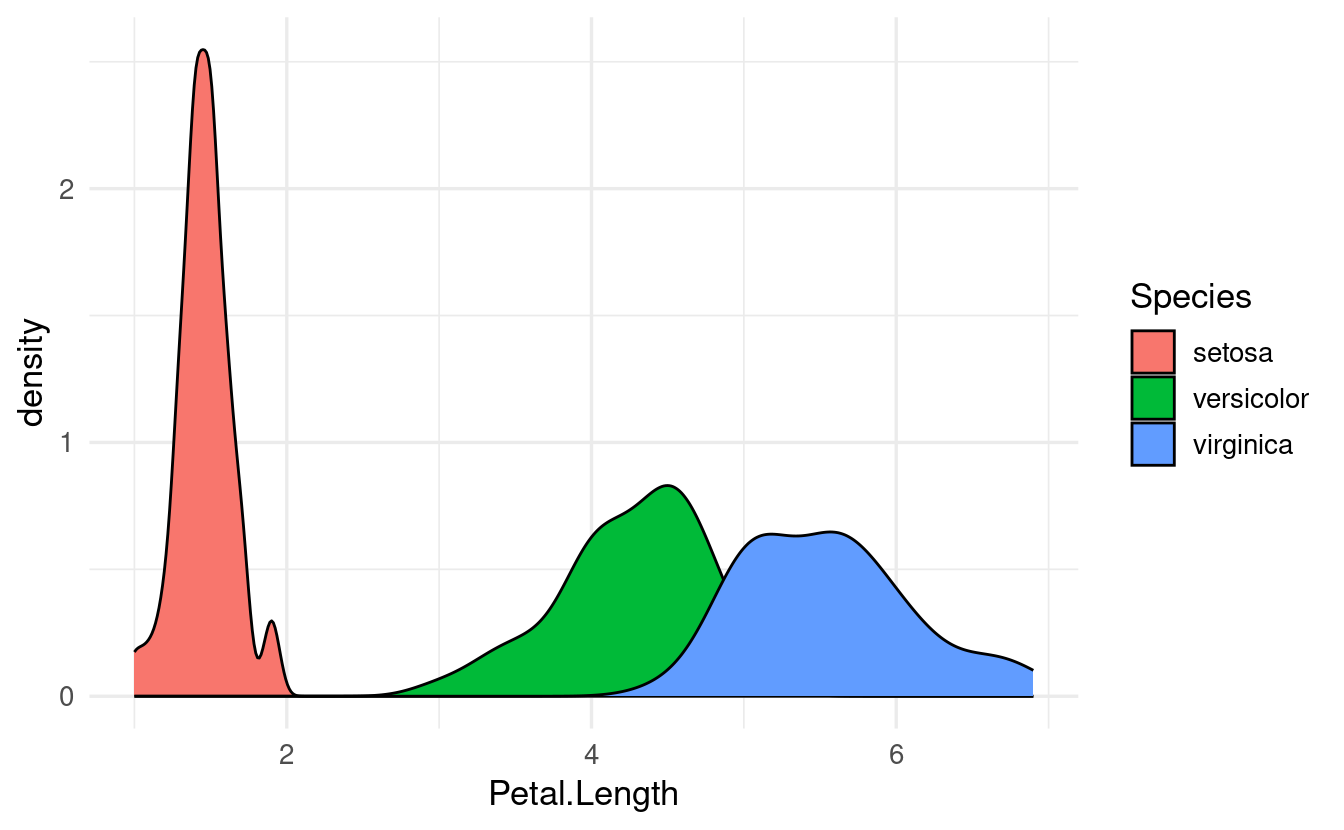
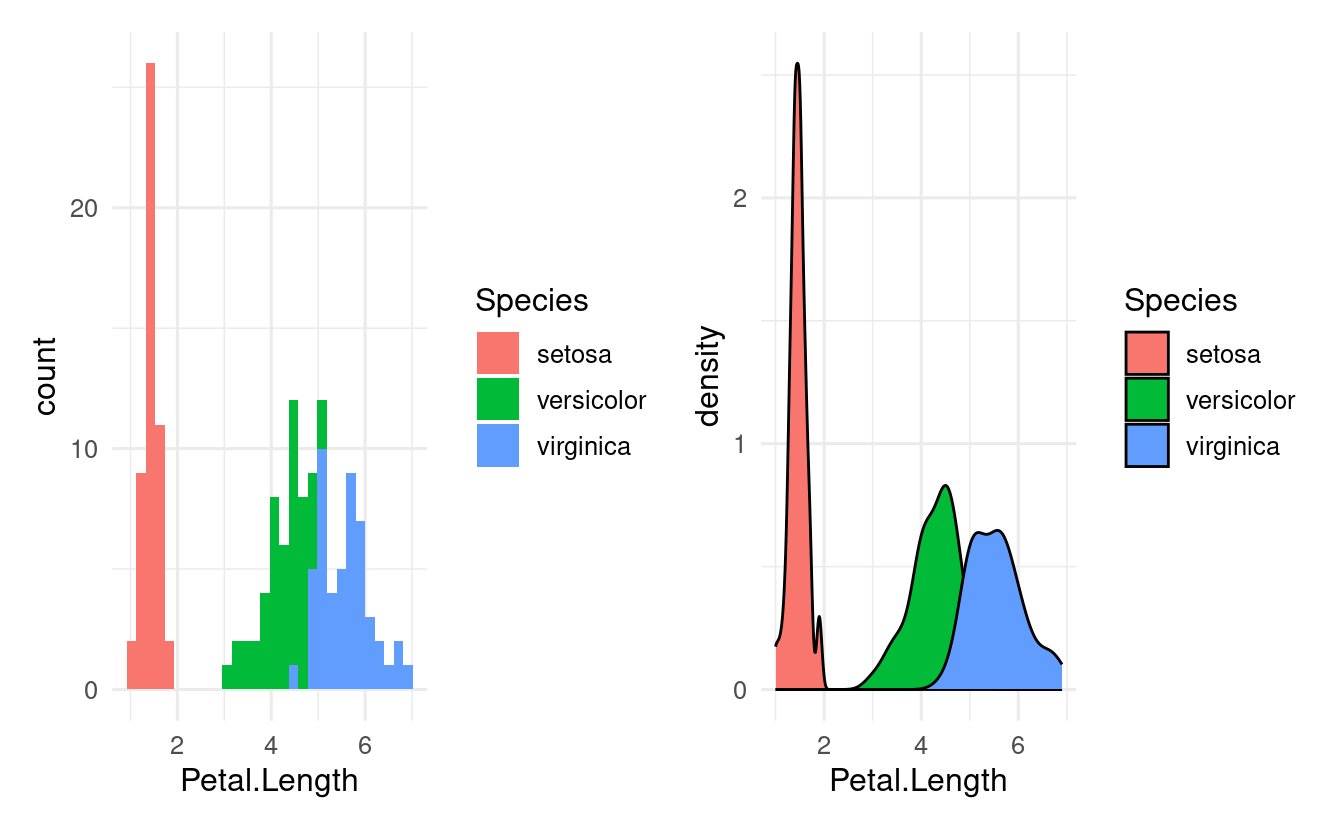
CC S05E09 proofread

diff --git a/content/codeclub/S05E09/index.md b/content/codeclub/S05E09/index.md
@@ -5,10 +5,10 @@ subtitle: "More aesthetic mappings and geoms"
 summary: "Today, we'll continue to learn about data visualization with ggplot2, focusing on aesthetic mappings and geoms."
 authors: [admin]
 tags: [codeclub, r4ds]
-date: "2023-03-28"
-lastmod: "2023-03-28"
+date: "2023-03-29"
+lastmod: "2023-03-29"
 toc: true
-rmd_hash: 5531fc60bb343a74
+rmd_hash: 18764a195b3e9b50
 
 ---
 
@@ -52,7 +52,7 @@ The *ggplot2* package is one of the core *tidyverse* packages, so it's generally
 
 </div>
 
-We'll talk about formatting plots to your heart's delight in Chapter 12, but one trick for now is to set a ggplot2 plotting "theme" that differs from the default for the rest of your R session:
+We'll talk about formatting plots to your heart's delight in Chapter 12, but one trick for now is to set a different *ggplot* plotting "theme" for the rest of your R session:
 
 <div class="highlight">
 
@@ -87,9 +87,9 @@ In last week's session, we worked with the built-in `iris` dataframe, which has 
 
 We learned that we create ggplots by "mapping" variables (dataframe columns) to so-called "aesthetics" such as the `x`-axis, the `y`-axis, and `color`:
 
--   If we map the `iris` dataframe variable `Petal.Length` to the `x`-axis aesthetic, then the x-axis of our plot will represent the values from the column `Petal.Length` in the dataframe.
+-   If we map the `iris` dataframe column `Petal.Length` to the `x`-axis aesthetic, then the values from that column will be plotted along the x-axis.
 
--   If we map the variable `Species` to the `color` aesthetic, then observations are colored according to the values in the `Species` column, i.e. according to which species of iris they belong to.
+-   If we map the `iris` dataframe column `Species` to the `color` aesthetic, then observations are colored according to the values in the `Species` column, i.e. according to which species of iris they belong to.
 
 <div class="highlight">
 
@@ -160,7 +160,7 @@ And that different geoms can be layered on top of each other, such as when you w
 
 ### Local vs global aesthetics
 
-One thing that's important to realize once you start using multiple geoms in a single plot is the distinction between "global" versus "local" aesthetics:
+It's useful to understand the distinction between "global" and "local" aesthetics:
 
 -   **Global aesthetics** apply to all geoms in the plot, and are added in the initial [`ggplot()`](https://ggplot2.tidyverse.org/reference/ggplot.html) call (or in a stand-alone [`aes()`](https://ggplot2.tidyverse.org/reference/aes.html) layer).
 
@@ -179,9 +179,9 @@ For instance, if we globally map `Species` to `color`, this will apply to the [`
 
 </div>
 
-Note also that in case of [`geom_smooth()`](https://ggplot2.tidyverse.org/reference/geom_smooth.html), which summarizes the data using a statistical function, this summarizing is done entirely *separately* for each species!
+(Note also that in case of [`geom_smooth()`](https://ggplot2.tidyverse.org/reference/geom_smooth.html), which summarizes the data using a statistical function, this summarizing is done entirely *separately* for each species!)
 
-Compare this with the plot that is created when we define the `color` mapping *locally*, and *only* for [`geom_point()`](https://ggplot2.tidyverse.org/reference/geom_point.html):
+In contrast, when we define the `color` mapping *locally*, and *only* for [`geom_point()`](https://ggplot2.tidyverse.org/reference/geom_point.html), we get this:
 
 <div class="highlight">
 
@@ -200,27 +200,28 @@ Now, we got a single line (and a single statistical fit) that ignores the `Speci
 
 *ggplot* has dozens of different geoms -- for an overview, see [this cheatsheet](https://github.com/rstudio/cheatsheets/blob/main/data-visualization-2.1.pdf) that Jessica linked to last week or the ggplot [reference on geoms](https://ggplot2.tidyverse.org/reference/#geoms).
 
-Let's see a couple more commonly used geoms. Last week we talked a bit about how a scatterplot does not always make it easy to compare the distributions of a variable among groups.
+Let's see a couple more commonly used geoms. Last week we talked a bit about how a scatterplot does not always make it easy to compares the distributions of a variable among groups.
 
 Useful plot types for showing and comparing distributions are histograms, density plots, box plots, and violin plots. Notice below that we use nearly identical code to make these different plots (in this case, to show the distribution of `Petal.Length` among iris species):
 
 <div class="highlight">
 
-<pre class='chroma'><code class='language-r' data-lang='r'><span><span class='nf'><a href='https://ggplot2.tidyverse.org/reference/ggplot.html'>ggplot</a></span><span class='o'>(</span>data <span class='o'>=</span> <span class='nv'>iris</span>,</span>
+<pre class='chroma'><code class='language-r' data-lang='r'><span><span class='c'># Left</span></span>
+<span><span class='nf'><a href='https://ggplot2.tidyverse.org/reference/ggplot.html'>ggplot</a></span><span class='o'>(</span>data <span class='o'>=</span> <span class='nv'>iris</span>,</span>
 <span>       mapping <span class='o'>=</span> <span class='nf'><a href='https://ggplot2.tidyverse.org/reference/aes.html'>aes</a></span><span class='o'>(</span>x <span class='o'>=</span> <span class='nv'>Petal.Length</span>, fill <span class='o'>=</span> <span class='nv'>Species</span><span class='o'>)</span><span class='o'>)</span> <span class='o'>+</span></span>
 <span>  <span class='nf'><a href='https://ggplot2.tidyverse.org/reference/geom_histogram.html'>geom_histogram</a></span><span class='o'>(</span><span class='o'>)</span></span>
-<span><span class='c'>#&gt; `stat_bin()` using `bins = 30`. Pick better value with `binwidth`.</span></span></code></pre>
-<img src="figs/unnamed-chunk-11-1.png" width="700px" style="display: block; margin: auto;" />
+<span></span>
+<span><span class='c'># Right</span></span>
+<span><span class='nf'><a href='https://ggplot2.tidyverse.org/reference/ggplot.html'>ggplot</a></span><span class='o'>(</span>data <span class='o'>=</span> <span class='nv'>iris</span>,</span>
+<span>       mapping <span class='o'>=</span> <span class='nf'><a href='https://ggplot2.tidyverse.org/reference/aes.html'>aes</a></span><span class='o'>(</span>x <span class='o'>=</span> <span class='nv'>Petal.Length</span>, fill <span class='o'>=</span> <span class='nv'>Species</span><span class='o'>)</span><span class='o'>)</span> <span class='o'>+</span></span>
+<span>  <span class='nf'><a href='https://ggplot2.tidyverse.org/reference/geom_density.html'>geom_density</a></span><span class='o'>(</span><span class='o'>)</span></span></code></pre>
 
 </div>
 
 <div class="highlight">
 
-<pre class='chroma'><code class='language-r' data-lang='r'><span><span class='nf'><a href='https://ggplot2.tidyverse.org/reference/ggplot.html'>ggplot</a></span><span class='o'>(</span>data <span class='o'>=</span> <span class='nv'>iris</span>,</span>
-<span>       mapping <span class='o'>=</span> <span class='nf'><a href='https://ggplot2.tidyverse.org/reference/aes.html'>aes</a></span><span class='o'>(</span>x <span class='o'>=</span> <span class='nv'>Petal.Length</span>, fill <span class='o'>=</span> <span class='nv'>Species</span><span class='o'>)</span><span class='o'>)</span> <span class='o'>+</span></span>
-<span>  <span class='nf'><a href='https://ggplot2.tidyverse.org/reference/geom_density.html'>geom_density</a></span><span class='o'>(</span><span class='o'>)</span></span>
-</code></pre>
-<img src="figs/unnamed-chunk-12-1.png" width="700px" style="display: block; margin: auto;" />
+<pre class='chroma'><code class='language-r' data-lang='r'><span><span class='c'>#&gt; `stat_bin()` using `bins = 30`. Pick better value with `binwidth`.</span></span></code></pre>
+<img src="figs/unnamed-chunk-12-1.png" width="95%" style="display: block; margin: auto;" />
 
 </div>
 
@@ -228,21 +229,21 @@ In the plots above, we only needed one axis (`x`), since the other axis consiste
 
 <div class="highlight">
 
-<pre class='chroma'><code class='language-r' data-lang='r'><span><span class='nf'><a href='https://ggplot2.tidyverse.org/reference/ggplot.html'>ggplot</a></span><span class='o'>(</span>data <span class='o'>=</span> <span class='nv'>iris</span>,</span>
+<pre class='chroma'><code class='language-r' data-lang='r'><span><span class='c'># Left</span></span>
+<span><span class='nf'><a href='https://ggplot2.tidyverse.org/reference/ggplot.html'>ggplot</a></span><span class='o'>(</span>data <span class='o'>=</span> <span class='nv'>iris</span>,</span>
 <span>       mapping <span class='o'>=</span> <span class='nf'><a href='https://ggplot2.tidyverse.org/reference/aes.html'>aes</a></span><span class='o'>(</span>y <span class='o'>=</span> <span class='nv'>Petal.Length</span>, x <span class='o'>=</span> <span class='nv'>Species</span>, fill <span class='o'>=</span> <span class='nv'>Species</span><span class='o'>)</span><span class='o'>)</span> <span class='o'>+</span></span>
 <span>  <span class='nf'><a href='https://ggplot2.tidyverse.org/reference/geom_boxplot.html'>geom_boxplot</a></span><span class='o'>(</span><span class='o'>)</span></span>
-</code></pre>
-<img src="figs/unnamed-chunk-13-1.png" width="700px" style="display: block; margin: auto;" />
+<span></span>
+<span><span class='c'># Right:</span></span>
+<span><span class='nf'><a href='https://ggplot2.tidyverse.org/reference/ggplot.html'>ggplot</a></span><span class='o'>(</span>data <span class='o'>=</span> <span class='nv'>iris</span>,</span>
+<span>       mapping <span class='o'>=</span> <span class='nf'><a href='https://ggplot2.tidyverse.org/reference/aes.html'>aes</a></span><span class='o'>(</span>y <span class='o'>=</span> <span class='nv'>Petal.Length</span>, x <span class='o'>=</span> <span class='nv'>Species</span>, fill <span class='o'>=</span> <span class='nv'>Species</span><span class='o'>)</span><span class='o'>)</span> <span class='o'>+</span></span>
+<span>  <span class='nf'><a href='https://ggplot2.tidyverse.org/reference/geom_violin.html'>geom_violin</a></span><span class='o'>(</span><span class='o'>)</span></span></code></pre>
 
 </div>
 
 <div class="highlight">
 
-<pre class='chroma'><code class='language-r' data-lang='r'><span><span class='nf'><a href='https://ggplot2.tidyverse.org/reference/ggplot.html'>ggplot</a></span><span class='o'>(</span>data <span class='o'>=</span> <span class='nv'>iris</span>,</span>
-<span>       mapping <span class='o'>=</span> <span class='nf'><a href='https://ggplot2.tidyverse.org/reference/aes.html'>aes</a></span><span class='o'>(</span>y <span class='o'>=</span> <span class='nv'>Petal.Length</span>, x <span class='o'>=</span> <span class='nv'>Species</span>, fill <span class='o'>=</span> <span class='nv'>Species</span><span class='o'>)</span><span class='o'>)</span> <span class='o'>+</span></span>
-<span>  <span class='nf'><a href='https://ggplot2.tidyverse.org/reference/geom_violin.html'>geom_violin</a></span><span class='o'>(</span><span class='o'>)</span></span>
-</code></pre>
-<img src="figs/unnamed-chunk-14-1.png" width="700px" style="display: block; margin: auto;" />
+<img src="figs/unnamed-chunk-14-1.png" width="95%" style="display: block; margin: auto;" />
 
 </div>
 
@@ -272,6 +273,8 @@ Then we can load it and use the ridgeplot geom [`geom_density_ridges()`](https:/
 
 </div>
 
+We can improve on a plot like this plot a bit, for instance by making the density shapes semi-transparent. We'll do that in the exercises below.
+
 <br>
 
 ------------------------------------------------------------------------
@@ -295,19 +298,19 @@ The following exercises use another built-in R dataframe, `mpg`, which has some 
 
 </div>
 
-You will use these columns:
+You will be using the following columns:
 
--   `displ` is the engine size (or "displacement")
+-   `displ` is the engine size ("displacement")
 -   `hwy` is gas mileage (miles per gallon) when driving on a highway
--   `drv` is the type of "drive train", where `f` = front-wheel drive, `r` = rear wheel drive, `4` = 4wd.
+-   `drv` is the type of "drive train", where `f` = front-wheel drive, `r` = rear wheel drive, `4` = 4wd
 
 <div class="puzzle">
 
 ### Exercise 1
 
-Very similar to our `iris` plot above, make a ridgeline plot of mileage (`hwy`) for cars with different drive trains (`drive`).
+Along the same lines as our last `iris` plot above, make a ridgeline plot of mileage (`hwy`) for cars with different drive trains (`drive`).
 
-And like in our `iris` plot, also map the `fill` aesthetic to the categorical variable (`drive`).
+And like in our `iris` plot, also map the `fill` aesthetic to `drive`.
 
 <details>
 <summary>
@@ -338,11 +341,7 @@ Solution (click here)
 
 Let's try to make the plot you made in Exercise 1 a bit nicer.
 
--   One issue is that the density shapes overlap. We can elegantly solve this by making them somewhat transparent, which we can do by setting `alpha`, e.g. to 0.5 (you would do this in the same way you would e.g. *set* (not *map*!) the color).
-
--   What do you think would happen if you *also* map the **`color`** aesthetic to `drive`? Check if you're right by making the plot.
-
--   As soon as we use the `color` and/or `fill` aesthetics, a legend will pop up. Do we need a legend in this case? Make the legend disappear by adding `show.legend = FALSE` inside [`geom_density_ridges()`](https://wilkelab.org/ggridges/reference/geom_density_ridges.html).
+-   One issue is that the density shapes overlap. We can elegantly solve this by making them semi-transparent, which we can do by setting `alpha`, e.g. to 0.5 (you would do this in the same way you would e.g. *set* (not *map*!) the color).
 
 <details>
 <summary>
@@ -351,7 +350,7 @@ Hints (click here)
 
 <br>
 
--   To set alpha to 0.5, use `geom_density_ridges(alpha = 0.5)`.
+To set alpha to 0.5, use `geom_density_ridges(alpha = 0.5)`.
 
 </details>
 
@@ -364,7 +363,7 @@ Solution (click here)
 
 <br>
 
--   Making the shapes partially transparent using `alpha`:
+Making the shapes partially transparent using `alpha`:
 
 <div class="highlight">
 
@@ -376,7 +375,20 @@ Solution (click here)
 
 </div>
 
--   When we map the `color` aesthetic, the **line** (as opposed to the *fill*) around the density shapes will get different colors:
+</details>
+
+<br>
+
+-   What do you think would happen if you *also* map the `color` aesthetic to `drive`? Check if you're right by making the plot.
+
+<details>
+<summary>
+Solution (click here)
+</summary>
+
+<br>
+
+When we map the `color` aesthetic, the **lines** (as opposed to the *fills*) around the density shapes will get different colors:
 
 <div class="highlight">
 
@@ -388,7 +400,20 @@ Solution (click here)
 
 </div>
 
--   We don't need a legend for `drv` here because we are already showing this information along the y-axis (for that matter, we don't need different colors, but it makes the plot prettier). We can turn off the legend as follows:
+</details>
+
+<br>
+
+-   As soon as we use the `color` and/or `fill` aesthetics, a legend will pop up. Do we need a legend in this case? Make the legend disappear by adding `show.legend = FALSE` inside [`geom_density_ridges()`](https://wilkelab.org/ggridges/reference/geom_density_ridges.html).
+
+<details>
+<summary>
+Solution (click here)
+</summary>
+
+<br>
+
+We don't need a legend for `drv` here because we are already showing this information along the y-axis (for that matter, we don't need different colors, but it makes the plot prettier). We can turn off the legend as follows:
 
 <div class="highlight">
 
@@ -410,7 +435,7 @@ Solution (click here)
 
 ### Exercise 3
 
--   Why does the following code not result in a plot with blue points?
+-   Why does the following code not result in a plot with blue points? Does *ggplot*'s behavior here make sense to you, or would you have expected an error?
 
 <div class="highlight">
 
@@ -420,8 +445,6 @@ Solution (click here)
 </div>
 
 -   Can you correct the error to create a plot with blue points?
-
--   Going back to the initial erroneous code: does *ggplot*'s behavior make sense to you, or would you have expected an error, for example?
 
 <details>
 <summary>
@@ -455,11 +478,9 @@ First, let's see the plot that the code produces:
 
 </div>
 
--   You might have been surprised that the inital code did not result in an error, since we normally map dataframe columns (like `displ` and `hwy` in this plot) to aesthetics, and `"blue"` is not a name of one of the columns in `mpg`.
+-   You might have been surprised that the initial code did not result in an error, since we normally map dataframe columns (like `displ` and `hwy` in this plot) to aesthetics, and `"blue"` is not a name of one of the columns in `mpg`.
 
     But, because `"blue"` was quoted, it was interpreted as a stand-alone *vector* instead. And in turn, because of R's automatic vector recycling, `"blue"` was repeated as many times as needed, under the hood, to map it to all observations in the plot.
-
-    (This leads to the realization that you don't *have to* map aesthetics to dataframe columns, you can also provide stand-alone vectors: you'll see more of that in the next exercise.)
 
 </details>
 
@@ -536,7 +557,7 @@ By itself, `displ < 5` within the ggplot functions will return in a logical vect
 
 </div>
 
-Next, ggplot is able to map this vector to the color aesthetic in the plot, just like it maps dataframe columns to an aesthetic (after all, dataframe columns are just vectors, too).
+Next, *ggplot* is able to map this vector to the color aesthetic in the plot, just like it maps dataframe columns to an aesthetic (after all, dataframe columns are just vectors, too).
 
 </details>
 
